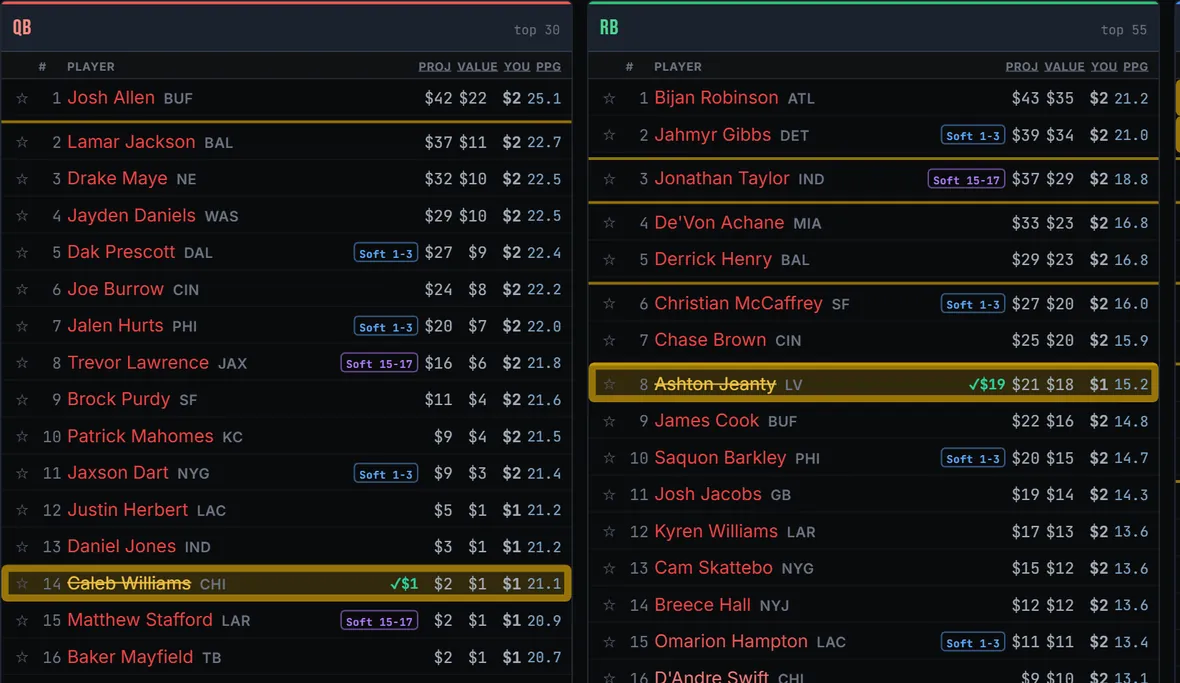
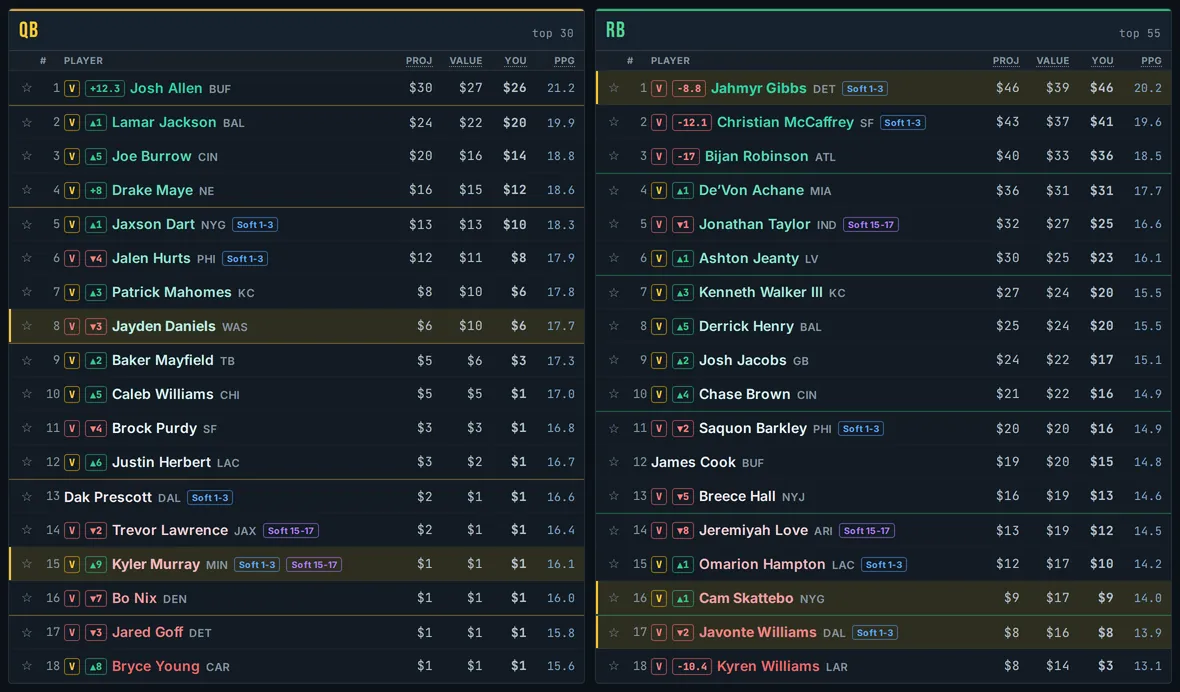
Home page: swap in the colour-graded cheat sheet shot
The hero screenshot was a snapshot from before the board's name colouring
landed, so every player name in it read the same red. That undersold the one
thing the sheet is for: the name colour IS the buy signal — green where Proj
sits under what he is worth, red where it sits above, with the neutral band
in between.

The new shot is the sheet as it renders today: the green-to-red name ramp
down each column, the V flag on players the betting market moved, the rank
move chip next to it, the Soft 1-3 / Soft 15-17 schedule chips, tier rules
and starred rows.

Kept the same 1180px-wide framing so the hero band's layout is untouched
(height 683 -> 692, ~75KB, in line with the file it replaces), and extended
the alt text to say what the colours and the V mean.

Claude-Session: https://claude.ai/code/session_01HoyEL58FeCpMcfz7Ws9WGE

diff --git a/front.html b/front.html
@@ -693,7 +693,7 @@ img{max-width:100%}
       <p class="hb-note">Free values in about a minute. Full custom pricing, the live Auction Manager and the AI Value Coach are a one-time <b>$9.99</b>.</p>
     </div>
     <figure class="hb-shot">
-      <img src="/auction-sheet.webp" width="1180" height="683" alt="The Iron Tuna auction cheat sheet: quarterbacks and running backs priced in dollars, with market price, true value and your max bid on every row." fetchpriority="high" decoding="async">
+      <img src="/auction-sheet.webp" width="1180" height="692" alt="The Iron Tuna auction cheat sheet: quarterbacks and running backs priced in dollars, with market price, true value and your max bid on every row. Names run green where the price sits under what he is worth and red where it sits above, and a V flags the players the betting market moved." fetchpriority="high" decoding="async">
       <figcaption class="hb-cap">The cheat sheet, priced for a 12-team $200 auction.</figcaption>
     </figure>
   </div>
